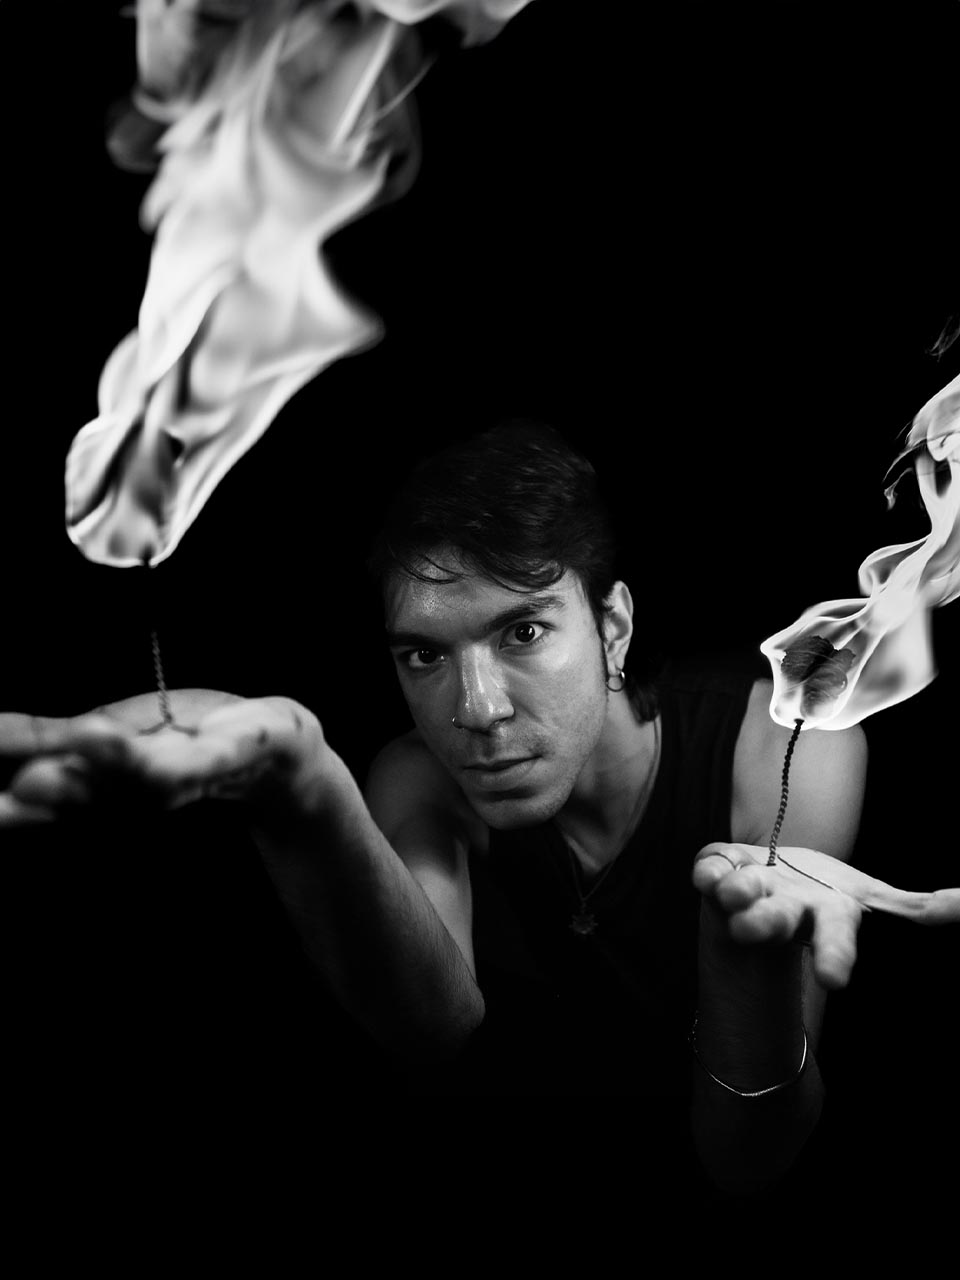
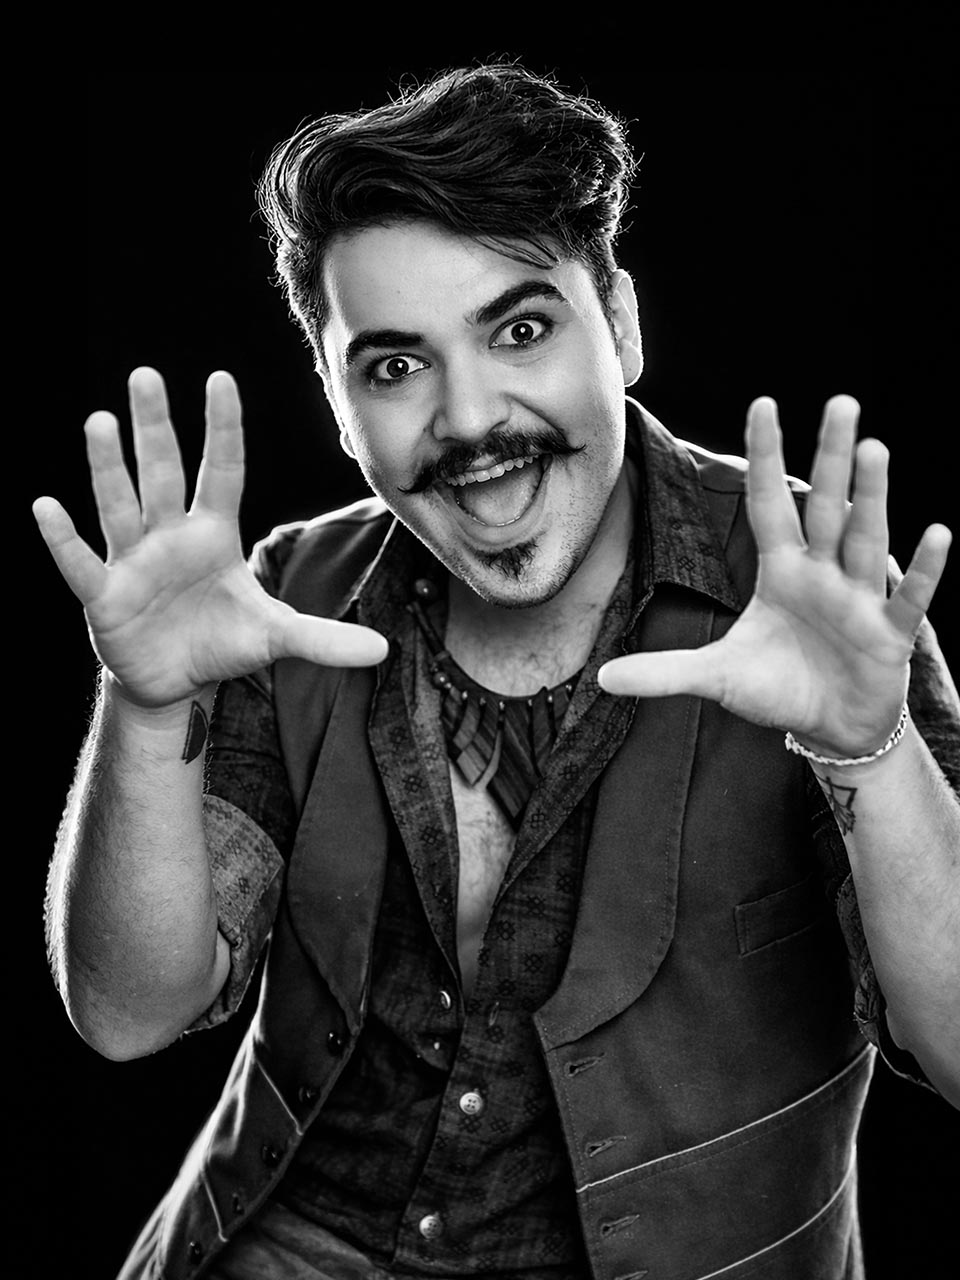
foto pagina criadores 2

diff --git a/foto/ensaio-para-criadores/index.html b/foto/ensaio-para-criadores/index.html
@@ -3,7 +3,7 @@
 <head>
 <meta charset="UTF-8">
 <title>Ensaio para Criadores | Rapozo</title>
-<meta name="description" content="Ensaios fotográficos profissionais para criadores de conteúdo que precisam de presença visual forte e autoral.">
+<meta name="description" content="Ensaios fotográficos para criadores que precisam construir presença visual forte e autoral.">
 <link rel="canonical" href="https://ricardorapozo.com/foto/ensaio-para-criadores">
 
 <meta name="viewport" content="width=device-width, initial-scale=1.0">
@@ -11,7 +11,6 @@
 
 <link rel="icon" href="/img/favicon.png" type="image/png">
 
-<!-- Fonts -->
 <link rel="preconnect" href="https://fonts.googleapis.com">
 <link rel="preconnect" href="https://fonts.gstatic.com" crossorigin>
 <link href="https://fonts.googleapis.com/css2?family=Oswald:wght@400;600&family=Inter:wght@300;400;500&display=swap" rel="stylesheet">
@@ -90,7 +89,7 @@ body, html {
     opacity: 0.85;
 }
 
-/* PRIMEIRO PARÁGRAFO */
+/* PRIMEIRO PARÁGRAFO (ÂNCORA) */
 .lado-preto .lead + p {
     opacity: 0.95;
     font-size: 1rem;
@@ -109,6 +108,15 @@ body, html {
     opacity: 0.65;
     margin-top: 32px;
     margin-bottom: 8px;
+}
+
+/* AJUSTE FINO DE HIERARQUIA */
+.lado-preto h2:first-of-type {
+    margin-top: 28px;
+}
+
+.lado-preto h2:nth-of-type(2) {
+    opacity: 0.8;
 }
 
 /* RITMO */
@@ -187,30 +195,30 @@ body, html {
         <p class="lead">Fotografia para presença digital em São Paulo</p>
 
         <p>
-        Criadores vivem de imagem. E imagem forte não nasce por acaso — é construída com direção, intenção e linguagem visual.
+        Presença não é sorte. É construção. E no digital, quem não constrói, desaparece.
         </p>
 
         <p>
-        O ensaio é pensado para traduzir identidade, posicionamento e estética em fotografias que comunicam presença e diferenciam você no ambiente digital.
+        O ensaio é pensado para transformar identidade em linguagem visual — imagens que não apenas mostram, mas posicionam.
         </p>
 
         <h2>Para quem é</h2>
         <p>
-        Criadores de conteúdo, influencers, streamers, artistas digitais e profissionais cuja imagem faz parte do próprio trabalho.
+        Criadores, artistas e profissionais que entendem que imagem não é detalhe — é estratégia.
         </p>
 
         <h2>Direção de imagem</h2>
         <p>
-        Expressão, postura e atmosfera são conduzidos como cena. Nada é deixado ao acaso — o objetivo não é repetir poses, mas revelar identidade.
+        Expressão, postura e atmosfera são conduzidos como cena. O ensaio não busca poses — constrói presença.
         </p>
 
         <h2>Resultado</h2>
         <p>
-        Imagens com linguagem editorial, impacto visual e assinatura estética.
+        Imagens com impacto, consistência estética e leitura imediata.
         </p>
 
         <p>
-        Fotografias que funcionam em perfis, capas e posicionamento digital.
+        Fotografias que sustentam posicionamento e diferenciam você no ambiente digital.
         </p>
 
         <h2>Outros ensaios disponíveis</h2>
@@ -224,7 +232,7 @@ body, html {
         </p>
 
         <button class="c-btn" onclick="window.location.href='/#contato'">
-            AGENDAR ENSAIO
+            CONSTRUIR PRESENÇA
         </button>
 
     </div>
